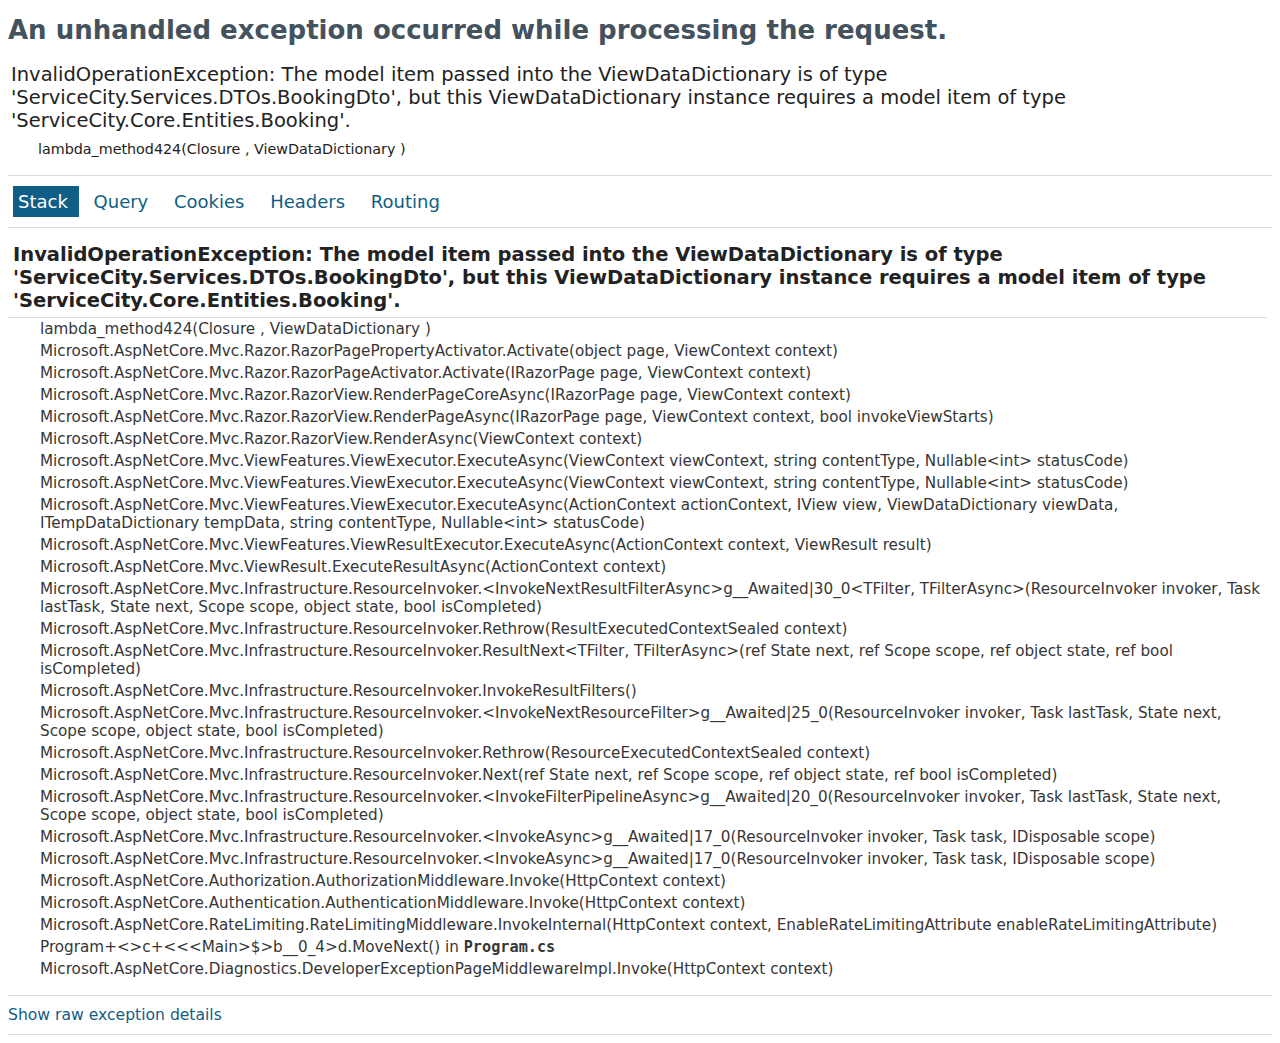
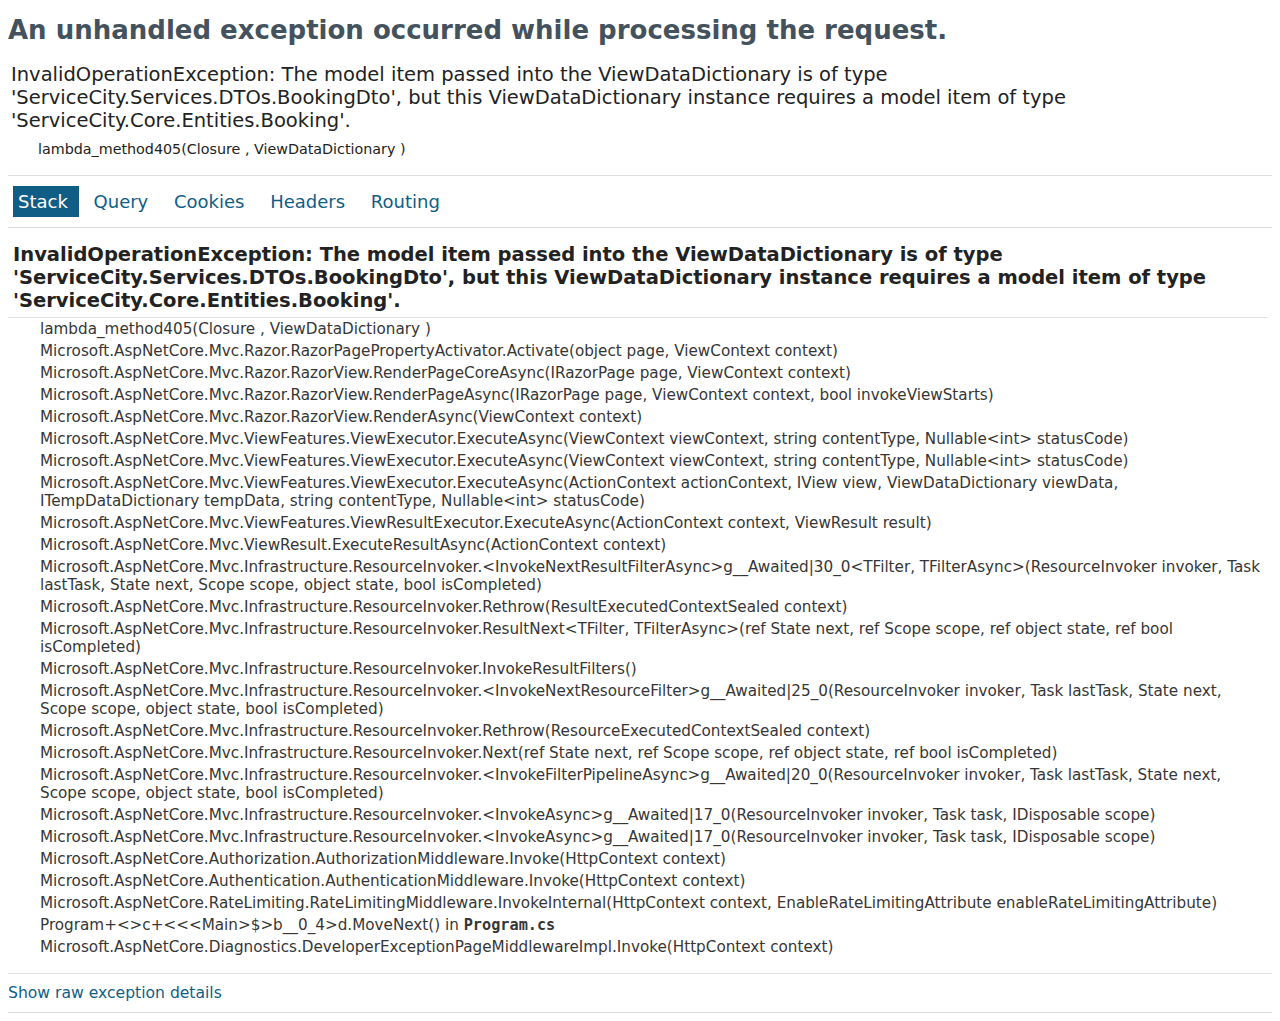
fix: varchar(12) overflow in reference number + add error page screenshot
Bug: GenerateReferenceNumber() produced 'SC-' + 10 chars = 13 chars but
column has varchar(12). Fixed by reducing random suffix from 10 to 8 chars.

Docs: Added error page screenshot to README and refreshed confirmation
and status timeline screenshots.

Changed region(s): [[0.0, 0.0304, 1.0, 1.0]]

diff --git a/ServiceCity.Services/Impl/BookingService.cs b/ServiceCity.Services/Impl/BookingService.cs
@@ -128,8 +128,8 @@ public class BookingService(
     private static string GenerateReferenceNumber()
     {
         const string chars = "ABCDEFGHIJKLMNOPQRSTUVWXYZ0123456789";
-        var bytes = RandomNumberGenerator.GetBytes(10);
-        var suffix = new char[10];
+        var bytes = RandomNumberGenerator.GetBytes(8);
+        var suffix = new char[8];
         for (int i = 0; i < 10; i++)
             suffix[i] = chars[bytes[i] % chars.Length];
         return $"SC-{new string(suffix)}";

diff --git a/README.md b/README.md
@@ -26,6 +26,9 @@
 ![Status Timeline](screenshots/06-status-timeline.png)
 *Track booking status with visual timeline*
 
+![Error Page](screenshots/07-error.png)
+*Friendly error page when something goes wrong*
+
 ---
 
 ## ✨ Features